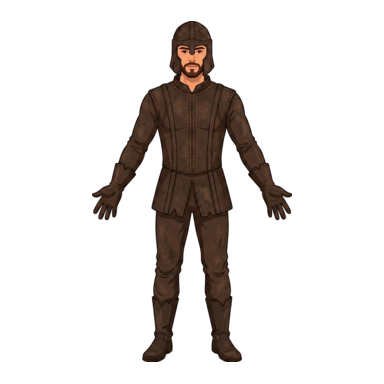
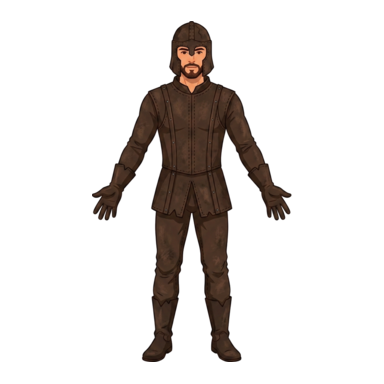
review: латы — три новых варианта вместо «дырявых»
Владелец забраковал стиль: пластины выглядят как обломки. Перегенерировано
три кадра с явным требованием сплошных целых пластин без просветов,
рваных краёв и ржавчины; один из них привязан к уже утверждённому виду
груди, чтобы комплект был одним стилем.

Четвёртый кадр отбракован автоматически: модель вернула горизонтальный
кадр 1376×768 с фигурой не в полный рост. Теперь выравнивание приводит
фигуру к сетке базы при любом размере кадра, а кадры с высотой/шириной
меньше 1.2 отсекаются как брак.

Замер «дыр» стиль не ловит — у забракованных лат покрытие торса 97.4%
при 3.1% дыр, у новых 98.7–99.1% при 1.5–1.8%: разница в отрисовке,
а не в просветах.

diff --git a/artifacts/my-app/public/_review/sets_full/metrics.md b/artifacts/my-app/public/_review/sets_full/metrics.md
@@ -39,3 +39,27 @@
 После утверждения вида режем на слои по зонам: голова → шея, шея → пояс,
 пояс → щиколотка, кисти, стопы. Где граница ляжет некрасиво — для этого
 слота делаем кадр «комплект минус вещь» и вычитаем.
+
+
+## Латы: переделка стиля (владелец: «дырявый, будто разваливается»)
+
+Сгенерировано четыре кадра, один отбракован автоматически.
+
+| кадр | что с ним | IoU с базой | покрыто торса | дыр внутри |
+|---|---|---|---|---|
+| исходные латы | забракованы владельцем | 0.859 | 97.4% | 3.1% |
+| вариант 2 | **брак**: модель дала горизонтальный кадр 1376×768, фигура 1271×713 — не в полный рост | — | — | — |
+| вариант A (plate3) | годен, кадр 1024 | 0.830 | 98.8% | 1.7% |
+| вариант B (plate4) | годен, кадр 848×1264 | 0.760 | 98.7% | 1.8% |
+| вариант C (plate5) | годен, кадр 848×1264 | 0.846 | 99.1% | 1.5% |
+
+Замер «дыр» стиль не улавливает: у забракованных лат покрытие 97.4% и дыр
+3.1% — формально почти так же, как у новых. «Дырявость» была в отрисовке
+(пластины как обломки), а не в просветах. Это видно только глазами.
+
+### Грабли
+
+Модель может вернуть кадр любого размера и ориентации: один кадр пришёл
+горизонтальным 1376×768 с лежачей фигурой. Теперь выравнивание приводит
+фигуру к сетке базы по высоте и центру (любой размер кадра), а кадры с
+отношением высоты к ширине меньше 1.2 отбрасываются как брак.

diff --git a/artifacts/my-app/public/_review/README.md b/artifacts/my-app/public/_review/README.md
@@ -48,3 +48,5 @@
 | `review-14-full-sets.jpg` | ПЕРЕХОД НА НОВЫЙ ПОДХОД: целые комплекты целиком (ткань/кожа/латы) против базы |
 | `sets_full/{cloth,leather,plate}.png` | те же комплекты отдельными файлами в каноне 384 |
 | `sets_full/metrics.md` | почему целиком, совпадение с базой, чем занято тело |
+| `review-15-plate-redo.jpg` | переделка лат: забракованный кадр и три новых варианта (A/B/C) |
+| `sets_full/plate{3,4,5}.png` | новые варианты лат отдельными файлами в каноне 384 |
